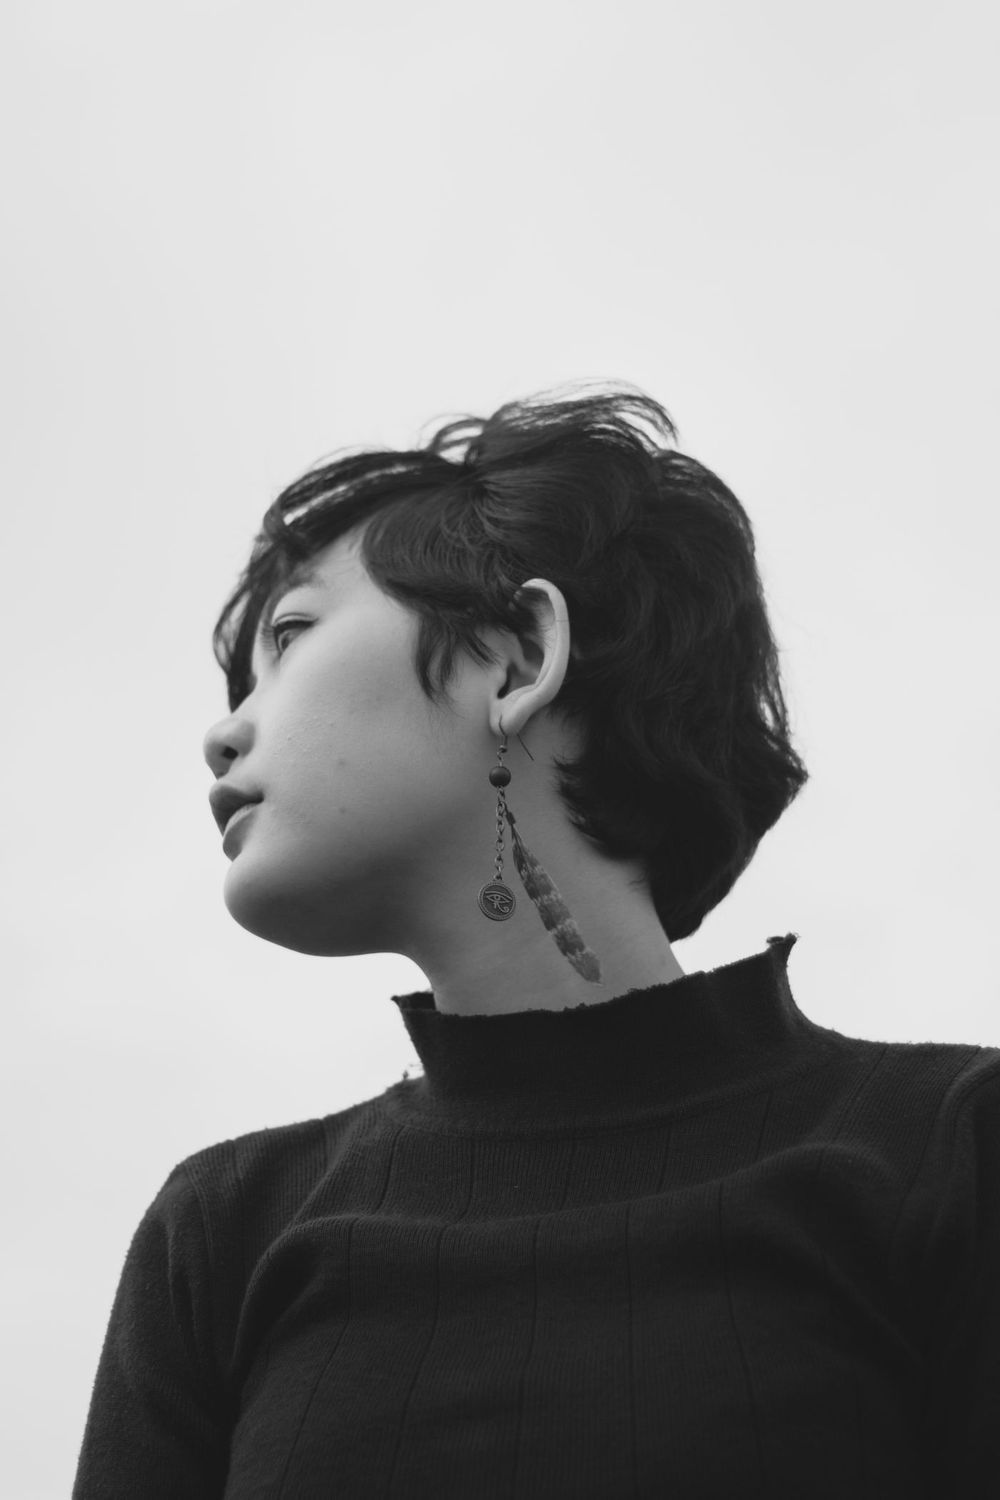
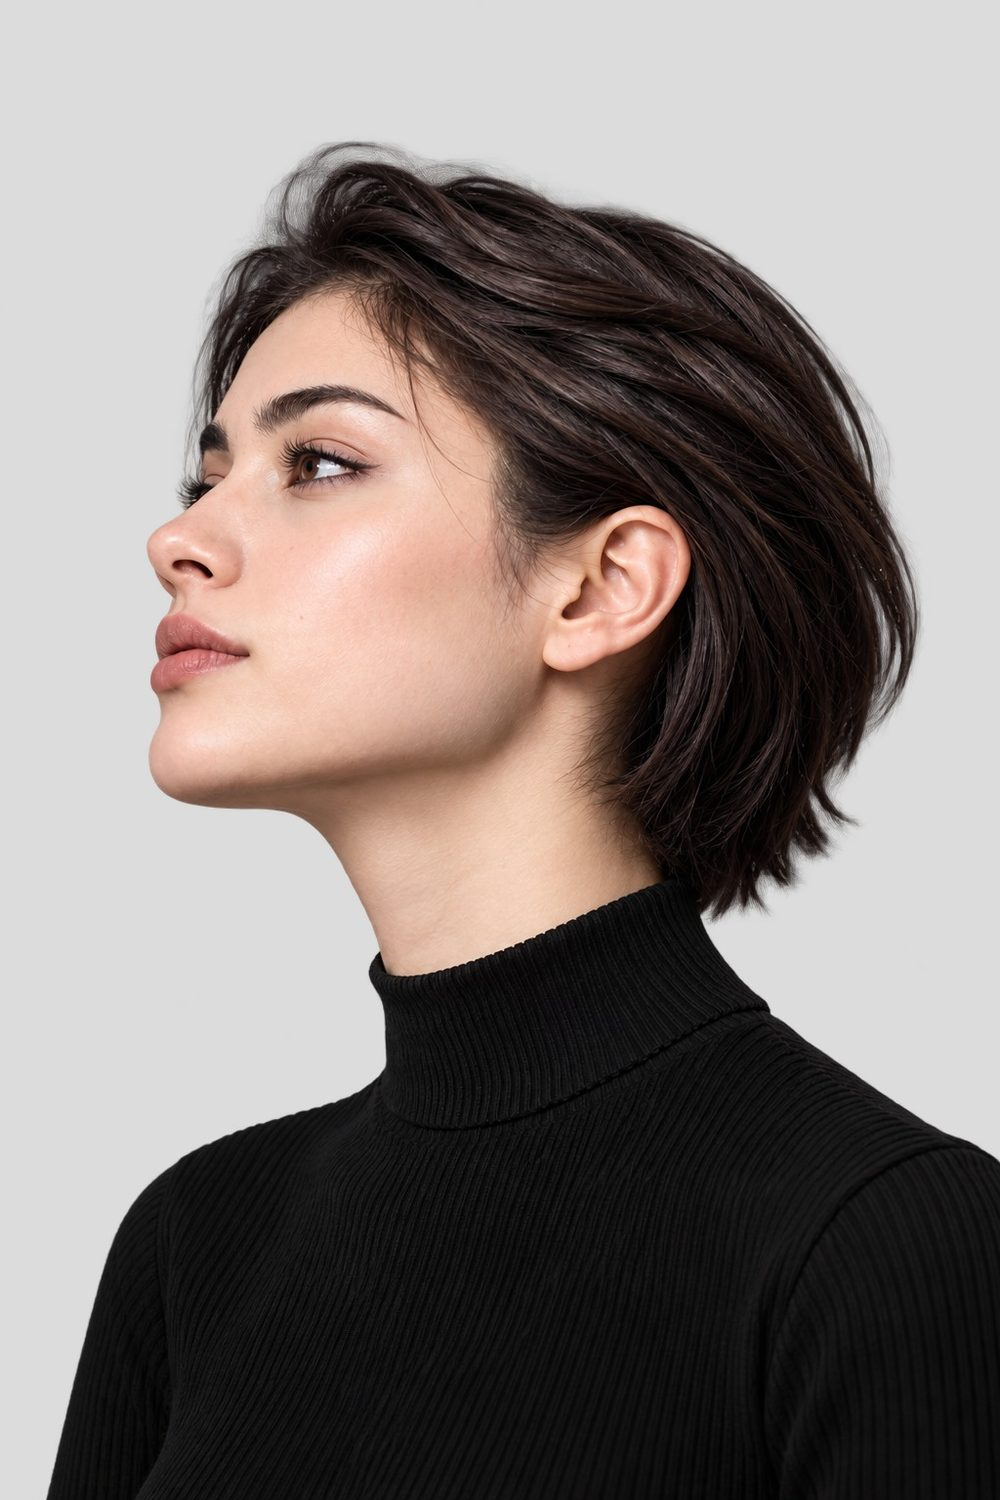
New hero portrait: clean cut-out with real YouCam try-on example

diff --git a/src/components/landing/Hero.tsx b/src/components/landing/Hero.tsx
@@ -84,19 +84,19 @@ export function Hero() {
 
         {/* cut-out portrait sits in front of the type */}
         <motion.div
-          className="pointer-events-none absolute bottom-0 left-1/2 z-10 aspect-[2/3] h-[74%] -translate-x-1/2 sm:-bottom-[8%] sm:h-[132%]"
+          className="pointer-events-none absolute bottom-0 left-1/2 z-10 aspect-[2/3] h-[74%] -translate-x-1/2 sm:-bottom-[8%] sm:h-[110%]"
           initial={reduce ? false : { y: 60, opacity: 0 }}
           animate={{ y: 0, opacity: 1 }}
           transition={{ duration: 1.1, delay: 0.3, ease }}
         >
           {/* eslint-disable-next-line @next/next/no-img-element */}
           <img
-            src="/examples/portrait-cutout.png"
+            src="/examples/portrait-cutout.webp"
             alt="Side-profile portrait wearing a small gold hoop earring placed by the YouCam Earring API"
             className="h-full w-full object-contain object-bottom"
             style={{
-              WebkitMaskImage: "linear-gradient(to right, transparent 0, #000 14%, #000 86%, transparent 100%), linear-gradient(to bottom, #000 78%, transparent 100%)",
-              maskImage: "linear-gradient(to right, transparent 0, #000 14%, #000 86%, transparent 100%), linear-gradient(to bottom, #000 78%, transparent 100%)",
+              WebkitMaskImage: "linear-gradient(to right, #000 0, #000 86%, transparent 97%), linear-gradient(to bottom, #000 80%, transparent 100%)",
+              maskImage: "linear-gradient(to right, #000 0, #000 86%, transparent 97%), linear-gradient(to bottom, #000 80%, transparent 100%)",
               WebkitMaskComposite: "source-in",
               maskComposite: "intersect",
             }}

diff --git a/TODO-ASSETS.md b/TODO-ASSETS.md
@@ -24,5 +24,4 @@ Keep each product's `referenceScaleCm` equal to the real declared size, since it
 
 Also worth replacing before submission:
 
-- `public/examples/pre-generated-*.jpg`: currently a Pexels portrait run through the real YouCam API. Replace with your own
-  before/after if you prefer a different face (or keep and credit).
+- `public/examples/*`: the hero cut-out (`portrait-cutout.webp`) and the before/after pair come from an AI-generated portrait run through the real YouCam Earring API. To use a different portrait: `npx tsx scripts/make-cutout-ml.ts <image>` for a transparent cut-out, then `npm run smoke -- <selfie> <earring> 1.8` for a try-on result.

diff --git a/README.md b/README.md
@@ -128,6 +128,6 @@ One Playwright test walks brief → pieces → photo → try-on → compare → 
 
 ## Credits & licence
 
-Sample portrait for the example and tests: Pexels photo 8092473 (Pexels licence). Placeholder earring art is generated SVG; see `TODO-ASSETS.md`.
+Hero/example portrait: an AI-generated image supplied by the author (no real person). The fixtures in `fixtures/inputs/` are gitignored. Placeholder earring art is generated SVG; see `TODO-ASSETS.md`.
 Fonts: Fraunces, Inter, JetBrains Mono (SIL OFL via `next/font`). Brands in the catalogue are fictional.
 Code released under the [MIT licence](LICENSE).
